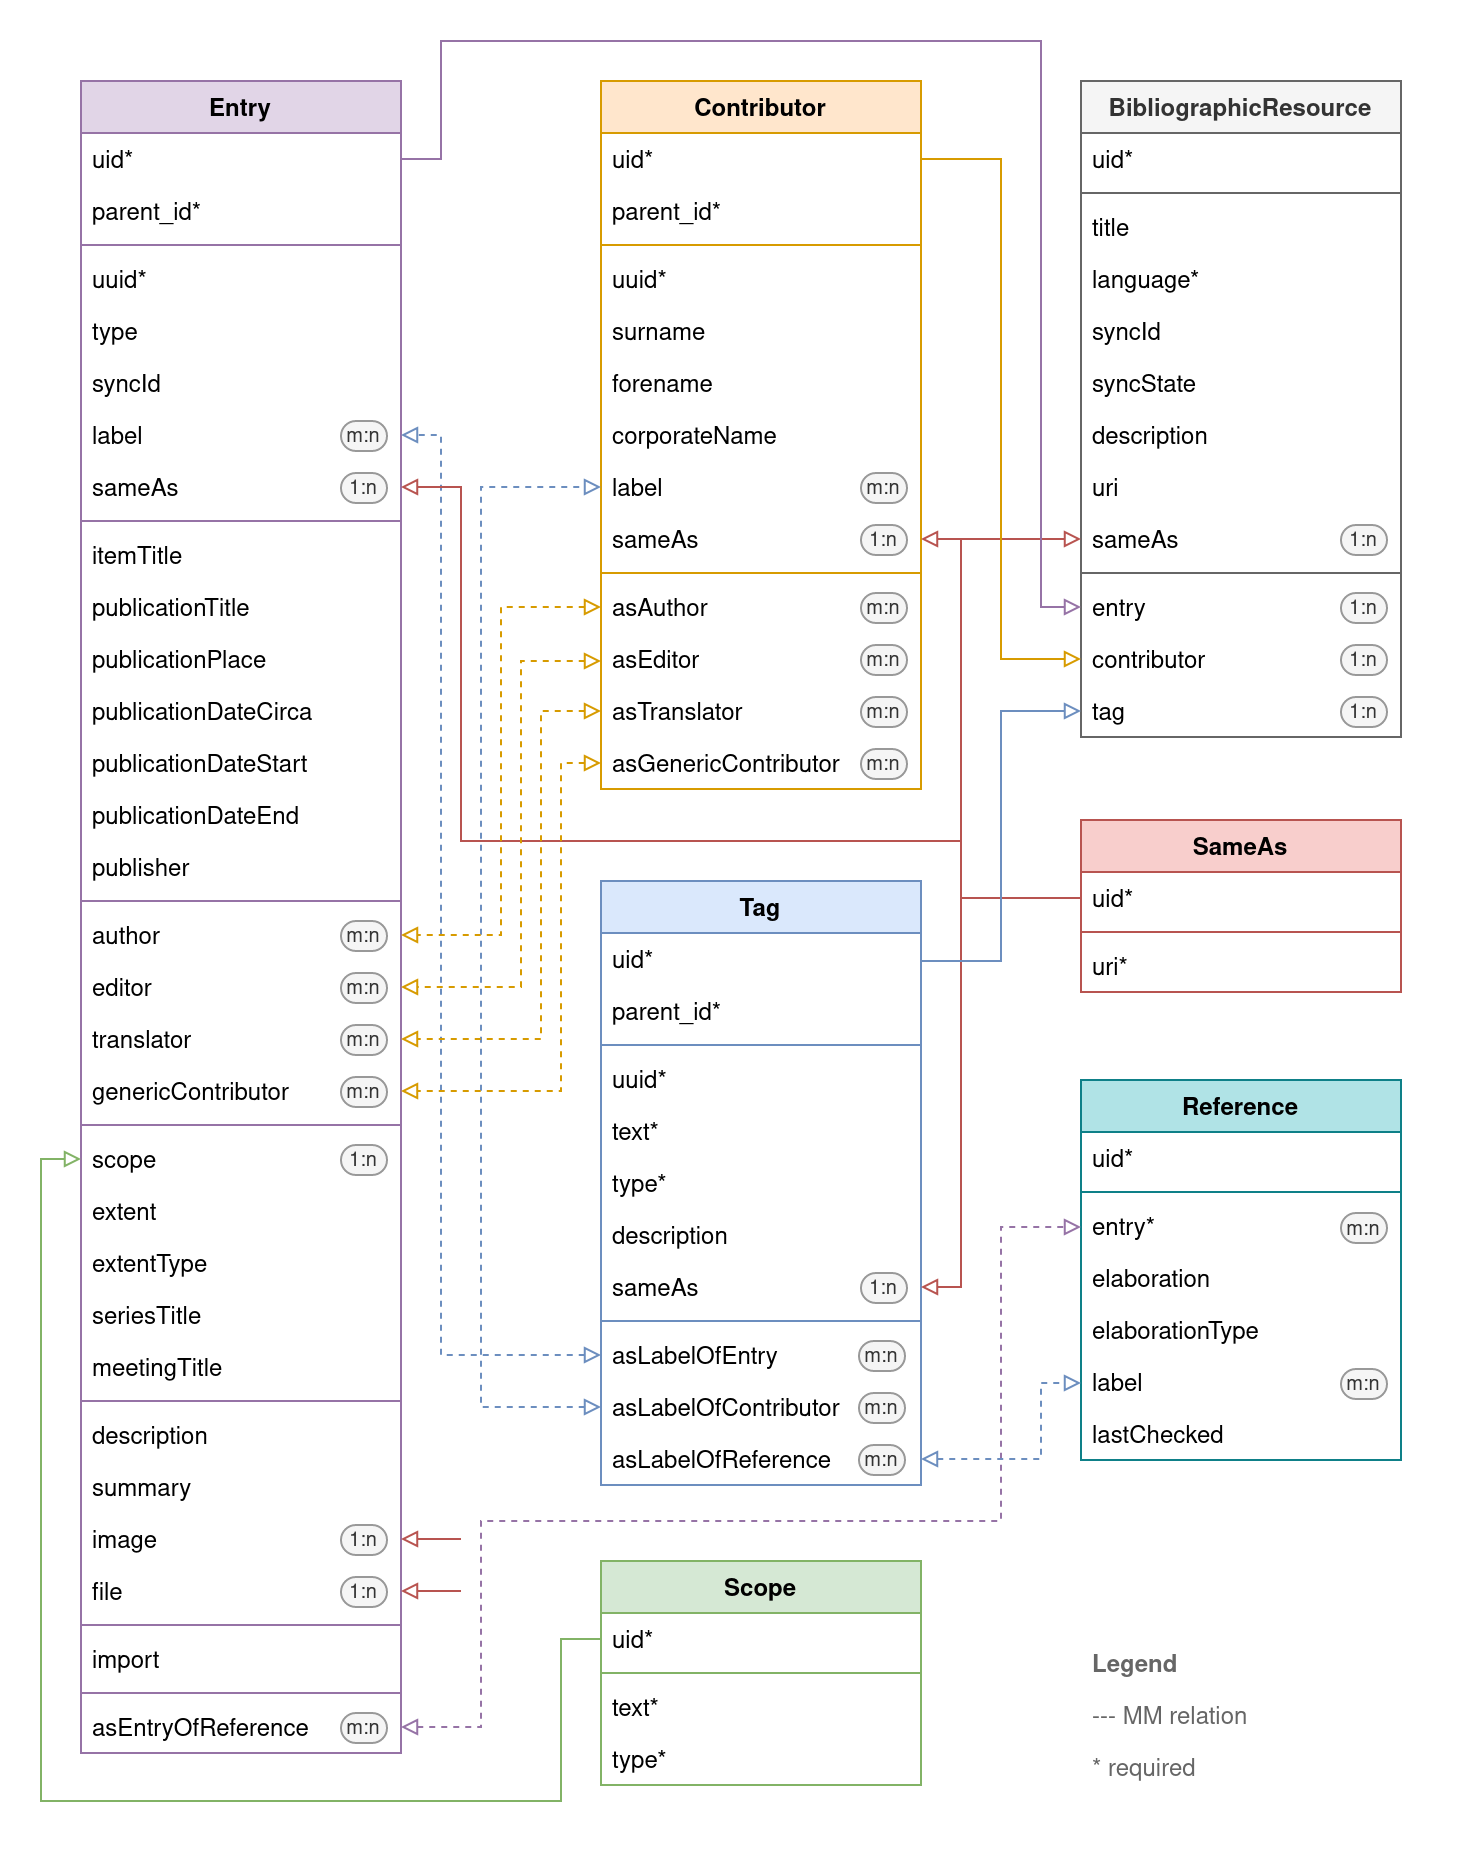
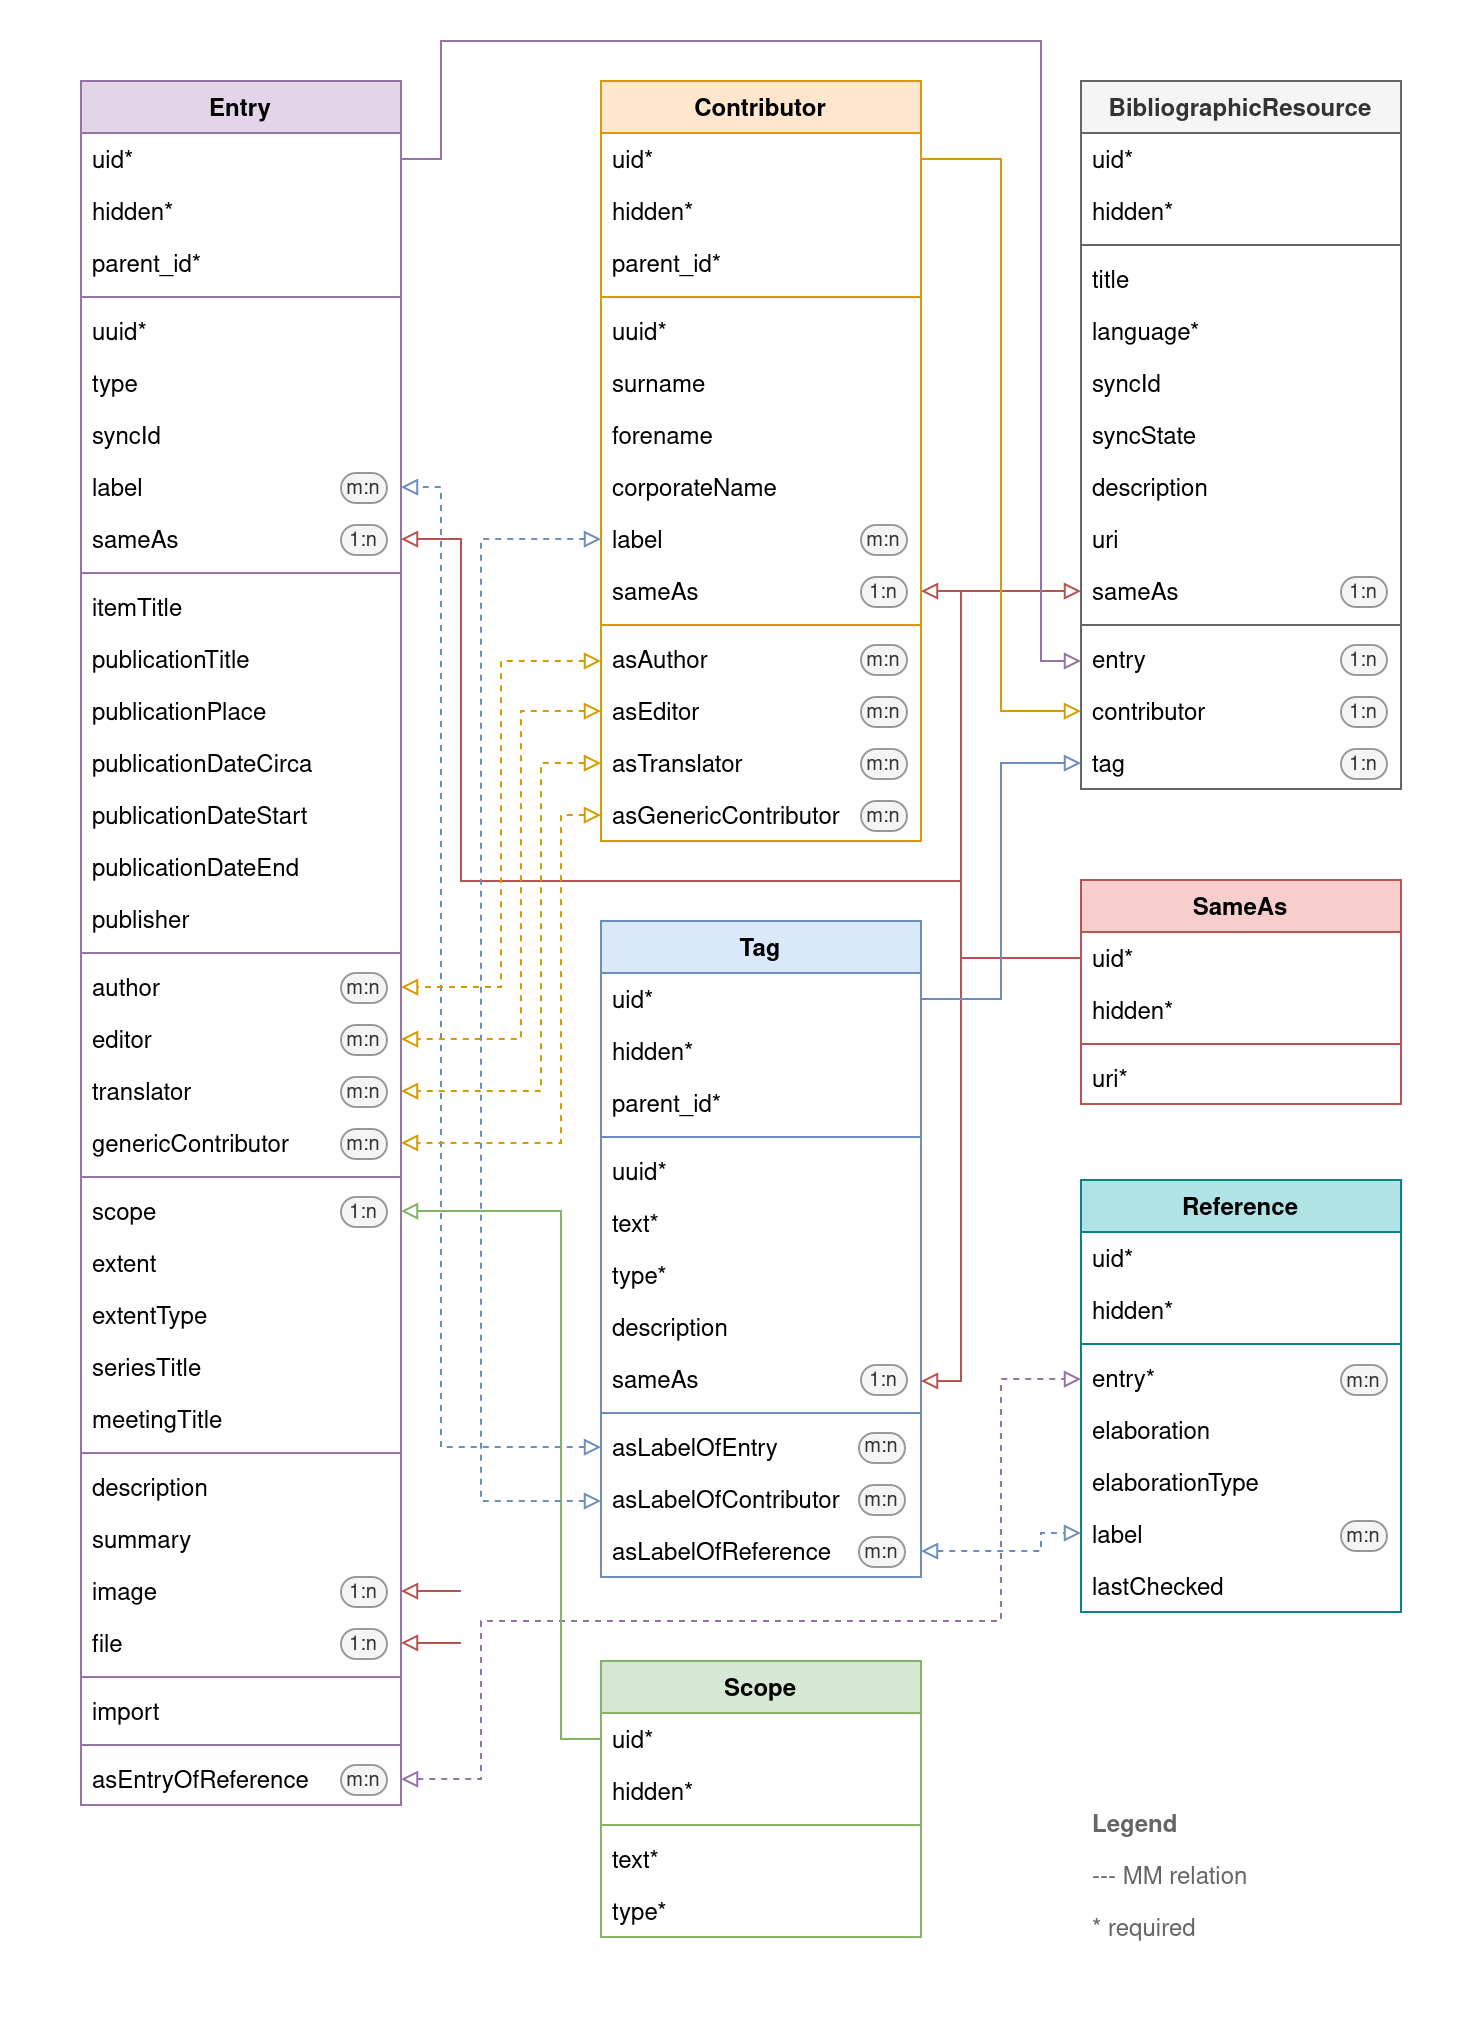
Add property 'hidden' to model files

diff --git a/Classes/Domain/Model/Contributor.php b/Classes/Domain/Model/Contributor.php
@@ -23,6 +23,16 @@ use TYPO3\CMS\Extbase\Persistence\ObjectStorage;
 class Contributor extends AbstractEntity
 {
     /**
+     * Whether the record should be visisible or not
+     * 
+     * @var bool
+     */
+    #[Validate([
+        'validator' => 'Boolean',
+    ])]
+    protected bool $hidden = false;
+
+    /**
      * Bibliography that this contributor is attached to
      * 
      * @var LazyLoadingProxy|BibliographicResource
@@ -160,6 +170,26 @@ class Contributor extends AbstractEntity
         $this->asEditor             = new ObjectStorage();
         $this->asTranslator         = new ObjectStorage();
         $this->asGenericContributor = new ObjectStorage();
+    }
+
+    /**
+     * Get hidden
+     *
+     * @return bool
+     */
+    public function getHidden(): bool
+    {
+        return $this->hidden;
+    }
+
+    /**
+     * Set hidden
+     *
+     * @param bool $hidden
+     */
+    public function setHidden(bool $hidden): void
+    {
+        $this->hidden = $hidden;
     }
 
     /**

diff --git a/Classes/Domain/Model/Entry.php b/Classes/Domain/Model/Entry.php
@@ -26,6 +26,16 @@ use TYPO3\CMS\Extbase\Persistence\ObjectStorage;
 class Entry extends AbstractEntity
 {
     /**
+     * Whether the record should be visisible or not
+     * 
+     * @var bool
+     */
+    #[Validate([
+        'validator' => 'Boolean',
+    ])]
+    protected bool $hidden = false;
+
+    /**
      * Bibliography that this entry is attached to
      * 
      * @var LazyLoadingProxy|BibliographicResource
@@ -393,6 +403,26 @@ class Entry extends AbstractEntity
         $this->image              = new ObjectStorage();
         $this->file               = new ObjectStorage();
         $this->asEntryOfReference = new ObjectStorage();
+    }
+
+    /**
+     * Get hidden
+     *
+     * @return bool
+     */
+    public function getHidden(): bool
+    {
+        return $this->hidden;
+    }
+
+    /**
+     * Set hidden
+     *
+     * @param bool $hidden
+     */
+    public function setHidden(bool $hidden): void
+    {
+        $this->hidden = $hidden;
     }
 
     /**

diff --git a/Classes/Domain/Model/Tag.php b/Classes/Domain/Model/Tag.php
@@ -24,6 +24,16 @@ use TYPO3\CMS\Extbase\Persistence\ObjectStorage;
 class Tag extends AbstractEntity
 {
     /**
+     * Whether the record should be visisible or not
+     * 
+     * @var bool
+     */
+    #[Validate([
+        'validator' => 'Boolean',
+    ])]
+    protected bool $hidden = false;
+
+    /**
      * Bibliography that this tag is attached to
      * 
      * @var LazyLoadingProxy|BibliographicResource
@@ -150,6 +160,26 @@ class Tag extends AbstractEntity
         $this->asLabelOfEntry       = new ObjectStorage();
         $this->asLabelOfContributor = new ObjectStorage();
         $this->asLabelOfReference   = new ObjectStorage();
+    }
+
+    /**
+     * Get hidden
+     *
+     * @return bool
+     */
+    public function getHidden(): bool
+    {
+        return $this->hidden;
+    }
+
+    /**
+     * Set hidden
+     *
+     * @param bool $hidden
+     */
+    public function setHidden(bool $hidden): void
+    {
+        $this->hidden = $hidden;
     }
 
     /**

diff --git a/Classes/Domain/Model/BibliographicResource.php b/Classes/Domain/Model/BibliographicResource.php
@@ -22,6 +22,16 @@ use TYPO3\CMS\Extbase\Persistence\ObjectStorage;
 class BibliographicResource extends AbstractEntity
 {
     /**
+     * Whether the record should be visisible or not
+     * 
+     * @var bool
+     */
+    #[Validate([
+        'validator' => 'Boolean',
+    ])]
+    protected bool $hidden = false;
+
+    /**
      * Name of the bibliography
      * 
      * @var string
@@ -159,6 +169,26 @@ class BibliographicResource extends AbstractEntity
         $this->entry       = new ObjectStorage();
         $this->contributor = new ObjectStorage();
         $this->tag         = new ObjectStorage();
+    }
+
+    /**
+     * Get hidden
+     *
+     * @return bool
+     */
+    public function getHidden(): bool
+    {
+        return $this->hidden;
+    }
+
+    /**
+     * Set hidden
+     *
+     * @param bool $hidden
+     */
+    public function setHidden(bool $hidden): void
+    {
+        $this->hidden = $hidden;
     }
 
     /**

diff --git a/Classes/Domain/Model/Reference.php b/Classes/Domain/Model/Reference.php
@@ -22,6 +22,16 @@ use TYPO3\CMS\Extbase\Persistence\ObjectStorage;
 class Reference extends AbstractEntity
 {
     /**
+     * Whether the record should be visisible or not
+     * 
+     * @var bool
+     */
+    #[Validate([
+        'validator' => 'Boolean',
+    ])]
+    protected bool $hidden = false;
+
+    /**
      * Bibliographic entry to reference
      * 
      * @var ObjectStorage<Entry>
@@ -98,6 +108,26 @@ class Reference extends AbstractEntity
     {
         $this->entry = new ObjectStorage();
         $this->label = new ObjectStorage();
+    }
+
+    /**
+     * Get hidden
+     *
+     * @return bool
+     */
+    public function getHidden(): bool
+    {
+        return $this->hidden;
+    }
+
+    /**
+     * Set hidden
+     *
+     * @param bool $hidden
+     */
+    public function setHidden(bool $hidden): void
+    {
+        $this->hidden = $hidden;
     }
 
     /**

diff --git a/Classes/Domain/Model/SameAs.php b/Classes/Domain/Model/SameAs.php
@@ -19,6 +19,16 @@ use TYPO3\CMS\Extbase\DomainObject\AbstractEntity;
 class SameAs extends AbstractEntity
 {
     /**
+     * Whether the record should be visisible or not
+     * 
+     * @var bool
+     */
+    #[Validate([
+        'validator' => 'Boolean',
+    ])]
+    protected bool $hidden = false;
+
+    /**
      * External web address to identify an entity across the web
      * 
      * @var string
@@ -37,6 +47,26 @@ class SameAs extends AbstractEntity
     public function __construct(string $uri)
     {
         $this->setUri($uri);
+    }
+
+    /**
+     * Get hidden
+     *
+     * @return bool
+     */
+    public function getHidden(): bool
+    {
+        return $this->hidden;
+    }
+
+    /**
+     * Set hidden
+     *
+     * @param bool $hidden
+     */
+    public function setHidden(bool $hidden): void
+    {
+        $this->hidden = $hidden;
     }
 
     /**

diff --git a/Classes/Domain/Model/Scope.php b/Classes/Domain/Model/Scope.php
@@ -20,6 +20,16 @@ use TYPO3\CMS\Extbase\DomainObject\AbstractEntity;
 class Scope extends AbstractEntity
 {
     /**
+     * Whether the record should be visisible or not
+     * 
+     * @var bool
+     */
+    #[Validate([
+        'validator' => 'Boolean',
+    ])]
+    protected bool $hidden = false;
+
+    /**
      * Specific notation, e.g., URL, ISSN, volume, issue, or another number
      * 
      * @var string
@@ -67,6 +77,26 @@ class Scope extends AbstractEntity
     {
         $this->setText($text);
         $this->setType($type);
+    }
+
+    /**
+     * Get hidden
+     *
+     * @return bool
+     */
+    public function getHidden(): bool
+    {
+        return $this->hidden;
+    }
+
+    /**
+     * Set hidden
+     *
+     * @param bool $hidden
+     */
+    public function setHidden(bool $hidden): void
+    {
+        $this->hidden = $hidden;
     }
 
     /**
